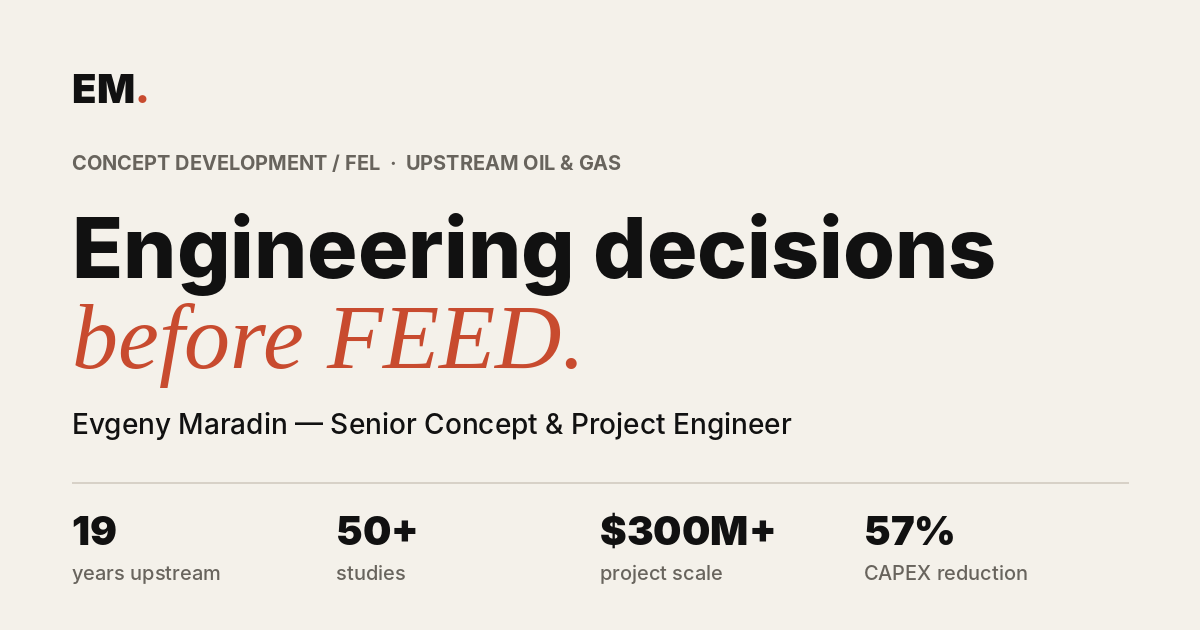
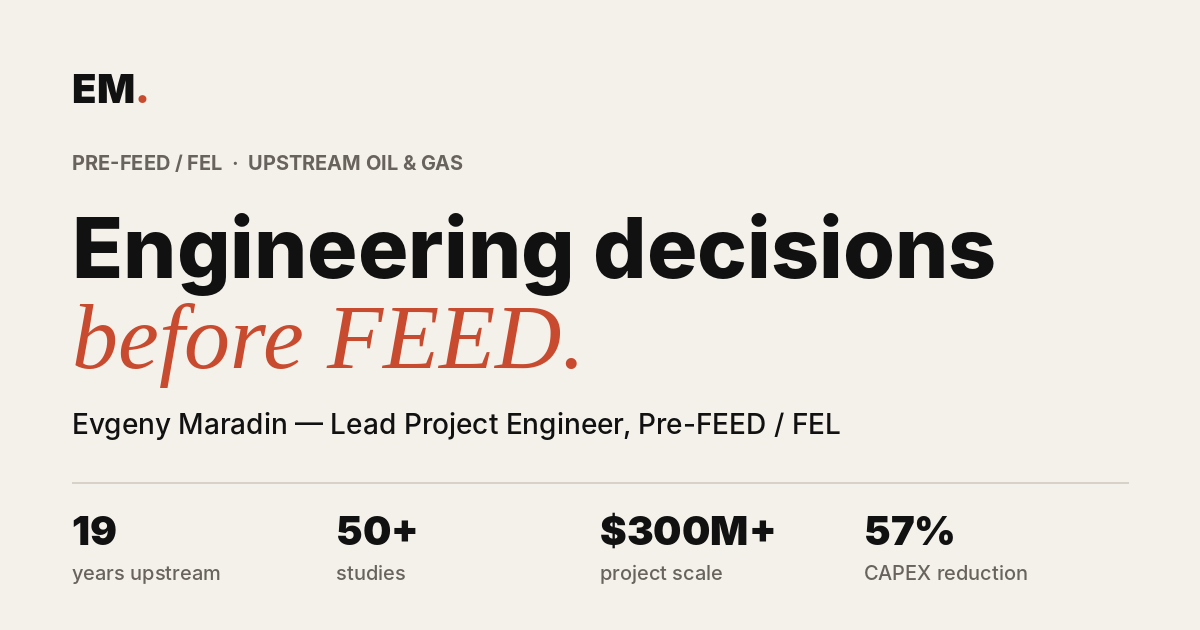
Headline: Lead Project Engineer – Pre-FEED / FEL; Rosneft engineering centre wording; drop lessons-learned claim
- Home, About, SEO titles, schema jobTitle and social card use the same headline as the CV and job boards
- Home trust row and About now say operator side plus a Rosneft engineering centre (contractor side, 2008-2011)
- Yaro-Yakhinskoye case: removed the unconfirmed lessons-learned register sentence

Claude-Session: https://claude.ai/code/session_01AiErhadNNxD5nXTGBqt4ui

Changed region(s): [[0.2775, 0.6333, 0.7092, 0.6937], [0.0617, 0.2413, 0.5242, 0.2714]]

diff --git a/web/index.html b/web/index.html
@@ -1,17 +1,17 @@
 <!doctype html><html lang="en"><head><meta charset="utf-8"><meta name="viewport" content="width=device-width,initial-scale=1">
-<title>Evgeny Maradin | Senior Concept &amp; Project Engineer, FEL1–FEL2, Upstream O&amp;G</title><meta name="description" content="Senior Concept and Project Engineer, 19 years in upstream oil &amp; gas: FEL1–FEL2, Pre-FEED, brownfield and CAPEX optimisation. Middle East, Africa, Asia.">
+<title>Evgeny Maradin | Lead Project Engineer – Pre-FEED / FEL, Upstream O&amp;G</title><meta name="description" content="Lead Project Engineer – Pre-FEED / FEL, 19 years in upstream oil &amp; gas: FEL1–FEL2, Pre-FEED, brownfield and CAPEX optimisation. Middle East, Africa, Asia.">
 <link rel="canonical" href="https://evgeny-maradin.pages.dev/"><link rel="icon" href="/favicon.svg" type="image/svg+xml"><link rel="apple-touch-icon" href="/apple-touch-icon.png">
-<meta property="og:title" content="Evgeny Maradin | Senior Concept &amp; Project Engineer, FEL1–FEL2, Upstream O&amp;G"><meta property="og:description" content="Senior Concept and Project Engineer, 19 years in upstream oil &amp; gas: FEL1–FEL2, Pre-FEED, brownfield and CAPEX optimisation. Middle East, Africa, Asia."><meta property="og:type" content="website">
+<meta property="og:title" content="Evgeny Maradin | Lead Project Engineer – Pre-FEED / FEL, Upstream O&amp;G"><meta property="og:description" content="Lead Project Engineer – Pre-FEED / FEL, 19 years in upstream oil &amp; gas: FEL1–FEL2, Pre-FEED, brownfield and CAPEX optimisation. Middle East, Africa, Asia."><meta property="og:type" content="website">
 <meta property="og:url" content="https://evgeny-maradin.pages.dev/"><meta property="og:image" content="https://evgeny-maradin.pages.dev/og.png"><meta property="og:image:width" content="1200"><meta property="og:image:height" content="630">
-<meta name="twitter:card" content="summary_large_image"><script type="application/ld+json">{"@context":"https://schema.org","@type":"Person","name":"Evgeny Maradin","url":"https://evgeny-maradin.pages.dev/","jobTitle":"Senior Concept and Project Engineer (FEL, Pre-FEED, FEED)","email":"mailto:enmaradin@gmail.com","image":"https://evgeny-maradin.pages.dev/og.png","sameAs":["https://www.linkedin.com/in/evgeny-maradin-5279b85a/"],"homeLocation":{"@type":"Place","name":"Philippines"},"knowsAbout":["FEL1–FEL2","Pre-FEED","Concept Selection","Brownfield Development","CAPEX Optimisation","Upstream Oil and Gas"]}</script>
+<meta name="twitter:card" content="summary_large_image"><script type="application/ld+json">{"@context":"https://schema.org","@type":"Person","name":"Evgeny Maradin","url":"https://evgeny-maradin.pages.dev/","jobTitle":"Lead Project Engineer – Pre-FEED / FEL","email":"mailto:enmaradin@gmail.com","image":"https://evgeny-maradin.pages.dev/og.png","sameAs":["https://www.linkedin.com/in/evgeny-maradin-5279b85a/"],"homeLocation":{"@type":"Place","name":"Philippines"},"knowsAbout":["FEL1–FEL2","Pre-FEED","Concept Selection","Brownfield Development","CAPEX Optimisation","Upstream Oil and Gas"]}</script>
 <link rel="stylesheet" href="/style.css"></head><body>
 <header><div class="container nav"><a class="brand" href="/" aria-label="Evgeny Maradin, home"><i class="bn-full">Evgeny Maradin</i><i class="bn-short">EM</i><span>.</span></a><nav><a href="/cases/">Cases</a><a href="/advisory/">Advisory</a><a href="/insights/">Insights</a><a href="/about/" class=hide-sm>About</a><a href="/contact/" class=hide-sm>Contact</a></nav></div></header>
-<main id="top"><section class="hero"><div class="container hero-grid"><div><p class="hero-name">Evgeny Maradin</p><p class="eyebrow">Concept Development / FEL | Upstream Oil &amp; Gas</p><h1>Engineering decisions<br><em>before FEED.</em></h1>
-<p class="lead">Senior Concept and Project Engineer: FEL1–FEL2, Pre-FEED, FEED and brownfield development, with hands-on operations and maintenance background.</p>
+<main id="top"><section class="hero"><div class="container hero-grid"><div><p class="hero-name">Evgeny Maradin</p><p class="eyebrow">Pre-FEED / FEL | Upstream Oil &amp; Gas</p><h1>Engineering decisions<br><em>before FEED.</em></h1>
+<p class="lead">Lead Project Engineer for FEL1–FEL2, Pre-FEED, FEED and brownfield development, with hands-on operations and maintenance background.</p>
 <p class="avail">Based in the Philippines · open to permanent, contract and rotational roles · available to mobilise within 2 weeks · Middle East, Africa, Southeast Asia</p>
 <div class="actions"><a class="button primary" href="/cases/">View cases</a><a class="button secondary" href="/advisory/">Advisory</a><a class="button secondary" href="https://www.linkedin.com/in/evgeny-maradin-5279b85a/" target="_blank" rel="noopener">LinkedIn ↗</a></div></div>
 <aside class="metrics"><div><b>19</b><span>years upstream O&amp;G</span></div><div><b>50+</b><span>projects &amp; studies</span></div><div><b>$300M+</b><span>project scale</span></div><div><b>57%</b><span>portfolio CAPEX reduction</span></div></aside></div></section>
-<section class="trust"><div class="container trust-row"><div><span>Operator side</span><b>Shell JV (Salym Petroleum) · Gazprom Neft · Rosneft</b></div><div><span>Contractors managed</span><b>KBR · Granherne</b></div><div><span>Expert network</span><b>GLG</b></div></div></section>
+<section class="trust"><div class="container trust-row"><div><span>Operator side &amp; engineering centre</span><b>Shell JV (Salym Petroleum) · Gazprom Neft · Rosneft</b></div><div><span>Contractors managed</span><b>KBR · Granherne</b></div><div><span>Expert network</span><b>GLG</b></div></div></section>
 <section class="statement"><div class="container narrow"><p>Project value is often determined long before detailed engineering starts. The critical work is making assumptions visible, integrating disciplines, testing options and creating a decision that can survive the transition into execution.</p></div></section>
 <section class="section"><div class="container"><div class="section-head"><div><p class="eyebrow">Selected cases</p><h2>Project cases.</h2></div><p><a class="textlink" href="/cases/">All nine cases →</a></p></div>
 <div class="case-grid three"><a class="case feature" href="/cases/portfolio-integration/"><small>SHELL JV · WESTERN SIBERIA · 2017–2023</small><h3>Portfolio Integration – 6 Fields</h3><p>Restructured development across six mature assets and identified shared infrastructure that changed the portfolio investment case.</p><div class="result"><b>~57%</b><span>CAPEX reduction<br>≈ $48M</span></div><span class="more">Read case →</span></a><a class="case" href="/cases/water-injection/"><small>SALYM PETROLEUM · ASSET INTEGRITY · 2023–2024</small><h3>Water Injection Re-engineering</h3><p>Merged a development scope and an asset-integrity programme into one study and replaced a disproportionate redevelopment concept: VRR from 70% to 95% at 80% lower CAPEX.</p><div class="result"><b>80%</b><span>CAPEX reduction<br>$3.6M saved</span></div><span class="more">Read case →</span></a><a class="case" href="/cases/epc-bid-analysis/"><small>MENA · INDEPENDENT ADVISORY INPUT · 2026</small><h3>EPC Bid Analysis & Contract Strategy</h3><p>Decomposed bid escalation drivers across a major upstream portfolio and structured scenarios around schedule, FEED maturity, scope and risk allocation.</p><div class="result"><b>$6B+</b><span>portfolio scale<br>independent advisory input</span></div><span class="more">Read case →</span></a></div></div></section>

diff --git a/web/about/index.html b/web/about/index.html
@@ -1,13 +1,13 @@
 <!doctype html><html lang="en"><head><meta charset="utf-8"><meta name="viewport" content="width=device-width,initial-scale=1">
-<title>About Evgeny Maradin | Senior Concept &amp; Project Engineer, Pre-FEED &amp; FEL</title><meta name="description" content="19 years in upstream oil &amp; gas, mostly operator side (Shell JV, Gazprom Neft, Rosneft): FEL1–FEL2, Pre-FEED, FEED and brownfield development. Career, education and tools.">
+<title>About Evgeny Maradin | Lead Project Engineer – Pre-FEED / FEL</title><meta name="description" content="19 years in upstream oil &amp; gas: operator side (Shell JV, Gazprom Neft) and a Rosneft engineering centre. FEL1–FEL2, Pre-FEED, FEED, brownfield. Career and tools.">
 <link rel="canonical" href="https://evgeny-maradin.pages.dev/about/"><link rel="icon" href="/favicon.svg" type="image/svg+xml"><link rel="apple-touch-icon" href="/apple-touch-icon.png">
-<meta property="og:title" content="About Evgeny Maradin | Senior Concept &amp; Project Engineer, Pre-FEED &amp; FEL"><meta property="og:description" content="19 years in upstream oil &amp; gas, mostly operator side (Shell JV, Gazprom Neft, Rosneft): FEL1–FEL2, Pre-FEED, FEED and brownfield development. Career, education and tools."><meta property="og:type" content="website">
+<meta property="og:title" content="About Evgeny Maradin | Lead Project Engineer – Pre-FEED / FEL"><meta property="og:description" content="19 years in upstream oil &amp; gas: operator side (Shell JV, Gazprom Neft) and a Rosneft engineering centre. FEL1–FEL2, Pre-FEED, FEED, brownfield. Career and tools."><meta property="og:type" content="website">
 <meta property="og:url" content="https://evgeny-maradin.pages.dev/about/"><meta property="og:image" content="https://evgeny-maradin.pages.dev/og.png"><meta property="og:image:width" content="1200"><meta property="og:image:height" content="630">
 <meta name="twitter:card" content="summary_large_image">
 <link rel="stylesheet" href="/style.css"></head><body>
 <header><div class="container nav"><a class="brand" href="/" aria-label="Evgeny Maradin, home"><i class="bn-full">Evgeny Maradin</i><i class="bn-short">EM</i><span>.</span></a><nav><a href="/cases/">Cases</a><a href="/advisory/">Advisory</a><a href="/insights/">Insights</a><a href="/about/" class=hide-sm aria-current=page>About</a><a href="/contact/" class=hide-sm>Contact</a></nav></div></header>
 <main id="top"><section class="hero small"><div class="container"><p class="eyebrow">About</p><h1 class="page">Operator-side engineer<br><em>for the front end.</em></h1>
-<p class="lead">19 years in upstream oil &amp; gas, most of it on the operator side, focused on the phase where project value, constraints and decision logic are set: FEL1–FEL2, Pre-FEED and brownfield development.</p>
+<p class="lead">19 years in upstream oil &amp; gas, most of it on the operator side, plus three years in a Rosneft engineering centre on the contractor side, focused on the phase where project value, constraints and decision logic are set: FEL1–FEL2, Pre-FEED and brownfield development.</p>
 <p class="avail">Based in the Philippines · open to permanent, contract and rotational roles · available to mobilise within 2 weeks · Middle East, Africa, Southeast Asia</p></div></section>
 <section class="section" style="border-top:0;padding-top:30px"><div class="container"><p class="eyebrow">Career</p><h2 style="margin-bottom:40px">Where the experience comes from.</h2>
 <div class="timeline"><div><time>2024 – now</time><div><b>Upstream Project Development Advisor</b><i>Independent · Remote</i><p>Early-phase advisory for operators and contractors in the Middle East and CIS: concept and feasibility support, brownfield system optimisation, EPC bid analysis. Independent industry expert with GLG.</p></div></div><div><time>2023 – 2024</time><div><b>Concept Development Manager</b><i>Salym Petroleum Development</i><p>Led a portfolio of 50+ FEL1–FEL2 and Pre-FEED studies ($1M–$300M+) through Decision Review Board approvals. 10-year surface facilities strategy across six fields. Built and led a team of five senior engineers.</p></div></div><div><time>2017 – 2023</time><div><b>Senior Concept Engineer</b><i>Salym Petroleum Development (Shell JV)</i><p>Front-End Development Manager on FEL1–FEL2 and Pre-FEED studies up to $300M+. Cross-field integration programme: 57% portfolio CAPEX reduction. Flow assurance at Technical Authority level 2.</p></div></div><div><time>2014 – 2017</time><div><b>Senior Project Engineer</b><i>Gazprom Neft · Arctic onshore</i><p>Led Pre-FEED and FEED on Yaro-Yakhinskoye ($300M+), then Project Engineer / PMO through detailed design and pre-start-up readiness.</p></div></div><div><time>2012 – 2014</time><div><b>Conceptual Design Engineer</b><i>Salym Petroleum Development (Shell JV)</i><p>15 concept studies ($1M–$26M). Managed international contractors, including KBR and Granherne, on a $46M shale appraisal project. Introduced the engineering MoC system.</p></div></div><div><time>2008 – 2011</time><div><b>Head of Concept Design / Concept Engineer</b><i>Rosneft</i><p>Engineering-centre (contractor) side: delivered 10+ greenfield and brownfield concept and Pre-FEED studies for Rosneft subsidiaries, held the study budget and competed with other centres for scope. Led a team of seven engineers.</p></div></div><div><time>2007 – 2008</time><div><b>Senior Field Mechanic (LPG/NGL)</b><i>Rosneft · Krasnodarneftegas</i><p>Four-stage oil–gas separation train feeding a DEG gas treatment plant (dry gas, LPG, stabilised condensate): commissioning of a new pump station, start-up, maintenance and post-incident recovery, including winter operation. Team of 11–13 technicians, zero LTI.</p></div></div></div></div></section>

diff --git a/web/cases/yaro-yakhinskoye/index.html b/web/cases/yaro-yakhinskoye/index.html
@@ -12,7 +12,7 @@
 <div class="big-result"><b>$300M+</b><span>New facilities integrated without production disruption on a $300M+ programme; FEED interface gap closed in a week, so the construction permit came on schedule.</span></div>
 <div class="story"><div><h4>Context</h4><p>Greenfield-to-brownfield transition on an active producing asset in Arctic conditions.</p></div><div><h4>Role</h4><p>Led Pre-FEED and FEED, then supported detailed engineering as Project Engineer / PMO, including construction and pre-start-up readiness assessments.</p></div>
 <div><h4>Challenge</h4><p>New facilities had to be tied into live production in a remote Arctic environment. Civil works were possible only in winter, so a month's slip in design approval risked a one-year deferral, and survey data and key tie-in areas were split across several FEED contractors.</p></div><div><h4>Action</h4><ul><li>Coordinated engineering disciplines through Pre-FEED and FEED.</li><li>On my own initiative ran an integrated review of key FEED documents and found a mismatch at the export pipeline and central processing facility tie-in point.</li><li>Brought the contractors and stakeholders together, set roles, responsibility zones and a short correction plan across FEED and detailed design; the changes were aligned within a week.</li><li>Led risk management and change control during execution preparation.</li></ul></div>
-<div><h4>Result</h4><p>FEED documentation submitted to state expert review on time with no interface findings, and the construction permit secured on schedule. Facilities integrated without production disruption on a $300M+ programme. The lesson, interface checks in a dedicated early FEED stage, was added to the Gazprom Neft corporate lessons-learned register.</p></div></div>
+<div><h4>Result</h4><p>FEED documentation submitted to state expert review on time with no interface findings, and the construction permit secured on schedule. Facilities integrated without production disruption on a $300M+ programme.</p></div></div>
 <div class="tags" style="margin:30px 0 50px"><i>FEED</i><i>Brownfield</i><i>Execution</i></div>
 <div style="margin-bottom:50px"><p class="eyebrow" style="margin-top:10px">Related reading</p><div class="agrid one"><a class="acard " href="/insights/integrated-fd/"><div class="pic"><img src="/img/insights/integrated-fd.webp" alt="" loading="lazy" width="800" height="449"></div><div class="abody"><small>FRAMEWORK · CONCEPT SELECT · 25 JUN 2026 · 5 MIN</small><b>Integrated Field Development Is Not About Building Facilities. It Is About Managing Constraints.</b><p>Why synchronisation, not infrastructure, determines project value long before first oil.</p><span class="more">Read article →</span></div></a></div></div>
 <div class="pager"><a href="/cases/epc-bid-analysis/"><small>← Previous case</small><b>EPC Bid Analysis & Contract Strategy</b></a><a href="/cases/south-hub/"><small>Next case →</small><b>South Hub – Brownfield Expansion</b></a></div>

diff --git a/tools/build_site.py b/tools/build_site.py
@@ -10,10 +10,10 @@ SITE = "https://evgeny-maradin.pages.dev"
 PAGES = []  # paths written by page(), for sitemap.xml
 # search titles (<= ~65 chars) and descriptions (<= ~160 chars) for the key pages
 SEO = {
-    "": ("Evgeny Maradin | Senior Concept & Project Engineer, FEL1–FEL2, Upstream O&G",
-         "Senior Concept and Project Engineer, 19 years in upstream oil & gas: FEL1–FEL2, Pre-FEED, brownfield and CAPEX optimisation. Middle East, Africa, Asia."),
-    "about": ("About Evgeny Maradin | Senior Concept & Project Engineer, Pre-FEED & FEL",
-              "19 years in upstream oil & gas, mostly operator side (Shell JV, Gazprom Neft, Rosneft): FEL1–FEL2, Pre-FEED, FEED and brownfield development. Career, education and tools."),
+    "": ("Evgeny Maradin | Lead Project Engineer – Pre-FEED / FEL, Upstream O&G",
+         "Lead Project Engineer – Pre-FEED / FEL, 19 years in upstream oil & gas: FEL1–FEL2, Pre-FEED, brownfield and CAPEX optimisation. Middle East, Africa, Asia."),
+    "about": ("About Evgeny Maradin | Lead Project Engineer – Pre-FEED / FEL",
+              "19 years in upstream oil & gas: operator side (Shell JV, Gazprom Neft) and a Rosneft engineering centre. FEL1–FEL2, Pre-FEED, FEED, brownfield. Career and tools."),
     "advisory": ("FEL & Pre-FEED Advisory for Upstream Oil & Gas | Evgeny Maradin",
                  "Independent FEL and Pre-FEED reviews, concept select, brownfield constraint analysis and EPC bid support for operators, contractors and investors."),
     "cases": ("Case Studies: Concept Select, Brownfield, CAPEX | Evgeny Maradin",
@@ -24,7 +24,7 @@ SEO = {
                 "Send a message or book a free 30-minute intro call about a role, a study or an expert call. Based in the Philippines, available to mobilise within 2 weeks."),
 }
 PERSON = ('{"@context":"https://schema.org","@type":"Person","name":"Evgeny Maradin","url":"%s/",'
-          '"jobTitle":"Senior Concept and Project Engineer (FEL, Pre-FEED, FEED)","email":"mailto:%s",'
+          '"jobTitle":"Lead Project Engineer – Pre-FEED / FEL","email":"mailto:%s",'
           '"image":"%s/og.png","sameAs":["%s"],"homeLocation":{"@type":"Place","name":"Philippines"},'
           '"knowsAbout":["FEL1–FEL2","Pre-FEED","Concept Selection","Brownfield Development","CAPEX Optimisation","Upstream Oil and Gas"]}'
           % (SITE, EMAIL, SITE, LI))
@@ -135,7 +135,7 @@ CASES = [
          role="Led Pre-FEED and FEED, then supported detailed engineering as Project Engineer / PMO, including construction and pre-start-up readiness assessments.",
          challenge="New facilities had to be tied into live production in a remote Arctic environment. Civil works were possible only in winter, so a month's slip in design approval risked a one-year deferral, and survey data and key tie-in areas were split across several FEED contractors.",
          action=['Coordinated engineering disciplines through Pre-FEED and FEED.', 'On my own initiative ran an integrated review of key FEED documents and found a mismatch at the export pipeline and central processing facility tie-in point.', 'Brought the contractors and stakeholders together, set roles, responsibility zones and a short correction plan across FEED and detailed design; the changes were aligned within a week.', 'Led risk management and change control during execution preparation.'],
-         result='FEED documentation submitted to state expert review on time with no interface findings, and the construction permit secured on schedule. Facilities integrated without production disruption on a $300M+ programme. The lesson, interface checks in a dedicated early FEED stage, was added to the Gazprom Neft corporate lessons-learned register.',
+         result='FEED documentation submitted to state expert review on time with no interface findings, and the construction permit secured on schedule. Facilities integrated without production disruption on a $300M+ programme.',
          insight="integrated-fd"),
     dict(slug="south-hub", n="06", label="Shell JV · Upper Salym field", years="2017–2018",
          title="South Hub – Brownfield Expansion",
@@ -516,9 +516,9 @@ TIMELINE = [
     ("2008 – 2011", "Head of Concept Design / Concept Engineer", "Rosneft", "Engineering-centre (contractor) side: delivered 10+ greenfield and brownfield concept and Pre-FEED studies for Rosneft subsidiaries, held the study budget and competed with other centres for scope. Led a team of seven engineers."),
     ("2007 – 2008", "Senior Field Mechanic (LPG/NGL)", "Rosneft · Krasnodarneftegas", "Four-stage oil–gas separation train feeding a DEG gas treatment plant (dry gas, LPG, stabilised condensate): commissioning of a new pump station, start-up, maintenance and post-incident recovery, including winter operation. Team of 11–13 technicians, zero LTI."),
 ]
-page("about", "About", "Evgeny Maradin: 19 years in upstream oil & gas, mostly on the operator side, focused on FEL1–FEL2, Pre-FEED and brownfield development.",
+page("about", "About", "Evgeny Maradin: 19 years in upstream oil & gas, mostly on the operator side plus a Rosneft engineering centre, focused on FEL1–FEL2, Pre-FEED and brownfield.",
      f'''<section class="hero small"><div class="container"><p class="eyebrow">About</p><h1 class="page">Operator-side engineer<br><em>for the front end.</em></h1>
-<p class="lead">19 years in upstream oil &amp; gas, most of it on the operator side, focused on the phase where project value, constraints and decision logic are set: FEL1–FEL2, Pre-FEED and brownfield development.</p>
+<p class="lead">19 years in upstream oil &amp; gas, most of it on the operator side, plus three years in a Rosneft engineering centre on the contractor side, focused on the phase where project value, constraints and decision logic are set: FEL1–FEL2, Pre-FEED and brownfield development.</p>
 <p class="avail">Based in the Philippines · open to permanent, contract and rotational roles · available to mobilise within 2 weeks · Middle East, Africa, Southeast Asia</p></div></section>
 <section class="section" style="border-top:0;padding-top:30px"><div class="container"><p class="eyebrow">Career</p><h2 style="margin-bottom:40px">Where the experience comes from.</h2>
 <div class="timeline">{"".join(f"<div><time>{y}</time><div><b>{r}</b><i>{o}</i><p>{d}</p></div></div>" for y, r, o, d in TIMELINE)}</div></div></section>
@@ -561,13 +561,13 @@ page("contact", "Contact", "Send a message or book a free 30-minute intro call w
 
 # ---------------- HOME ----------------
 featured = [CASES[0], CASES[1], CASES[3]]
-page("", "", "Senior Concept and Project Engineer: FEL1–FEL2, Pre-FEED and brownfield development in upstream oil & gas.",
-     f'''<section class="hero"><div class="container hero-grid"><div><p class="hero-name">Evgeny Maradin</p><p class="eyebrow">Concept Development / FEL | Upstream Oil &amp; Gas</p><h1>Engineering decisions<br><em>before FEED.</em></h1>
-<p class="lead">Senior Concept and Project Engineer: FEL1–FEL2, Pre-FEED, FEED and brownfield development, with hands-on operations and maintenance background.</p>
+page("", "", "Lead Project Engineer for FEL1–FEL2, Pre-FEED and brownfield development in upstream oil & gas.",
+     f'''<section class="hero"><div class="container hero-grid"><div><p class="hero-name">Evgeny Maradin</p><p class="eyebrow">Pre-FEED / FEL | Upstream Oil &amp; Gas</p><h1>Engineering decisions<br><em>before FEED.</em></h1>
+<p class="lead">Lead Project Engineer for FEL1–FEL2, Pre-FEED, FEED and brownfield development, with hands-on operations and maintenance background.</p>
 <p class="avail">Based in the Philippines · open to permanent, contract and rotational roles · available to mobilise within 2 weeks · Middle East, Africa, Southeast Asia</p>
 <div class="actions"><a class="button primary" href="/cases/">View cases</a><a class="button secondary" href="/advisory/">Advisory</a><a class="button secondary" href="{LI}" target="_blank" rel="noopener">LinkedIn ↗</a></div></div>
 <aside class="metrics"><div><b>19</b><span>years upstream O&amp;G</span></div><div><b>50+</b><span>projects &amp; studies</span></div><div><b>$300M+</b><span>project scale</span></div><div><b>57%</b><span>portfolio CAPEX reduction</span></div></aside></div></section>
-<section class="trust"><div class="container trust-row"><div><span>Operator side</span><b>Shell JV (Salym Petroleum) · Gazprom Neft · Rosneft</b></div><div><span>Contractors managed</span><b>KBR · Granherne</b></div><div><span>Expert network</span><b>GLG</b></div></div></section>
+<section class="trust"><div class="container trust-row"><div><span>Operator side &amp; engineering centre</span><b>Shell JV (Salym Petroleum) · Gazprom Neft · Rosneft</b></div><div><span>Contractors managed</span><b>KBR · Granherne</b></div><div><span>Expert network</span><b>GLG</b></div></div></section>
 <section class="statement"><div class="container narrow"><p>Project value is often determined long before detailed engineering starts. The critical work is making assumptions visible, integrating disciplines, testing options and creating a decision that can survive the transition into execution.</p></div></section>
 <section class="section"><div class="container"><div class="section-head"><div><p class="eyebrow">Selected cases</p><h2>Project cases.</h2></div><p><a class="textlink" href="/cases/">All {NUM[len(CASES)].lower()} cases →</a></p></div>
 <div class="case-grid three">{"".join(case_card(c, num=False) for c in featured)}</div></div></section>

diff --git a/tools/make_og.py b/tools/make_og.py
@@ -18,10 +18,10 @@ f = lambda w, s: ImageFont.truetype(INTER.format(w), s)
 
 d.text((PAD, 64), "EM", font=f("Black", 40), fill=INK)
 d.text((PAD + d.textlength("EM", font=f("Black", 40)), 64), ".", font=f("Black", 40), fill=ACCENT)
-d.text((PAD, 150), "CONCEPT DEVELOPMENT / FEL  ·  UPSTREAM OIL & GAS", font=f("Bold", 20), fill=MUTED)
+d.text((PAD, 150), "PRE-FEED / FEL  ·  UPSTREAM OIL & GAS", font=f("Bold", 20), fill=MUTED)
 d.text((PAD, 196), "Engineering decisions", font=f("ExtraBold", 84), fill=INK)
 d.text((PAD, 286), "before FEED.", font=ImageFont.truetype(SERIF_IT, 92), fill=ACCENT)
-d.text((PAD, 406), "Evgeny Maradin — Senior Concept & Project Engineer", font=f("Medium", 28), fill=INK)
+d.text((PAD, 406), "Evgeny Maradin — Lead Project Engineer, Pre-FEED / FEL", font=f("Medium", 28), fill=INK)
 
 d.line((PAD, 482, W - PAD, 482), fill=LINE, width=2)
 metrics = [("19", "years upstream"), ("50+", "studies"), ("$300M+", "project scale"), ("57%", "CAPEX reduction")]
